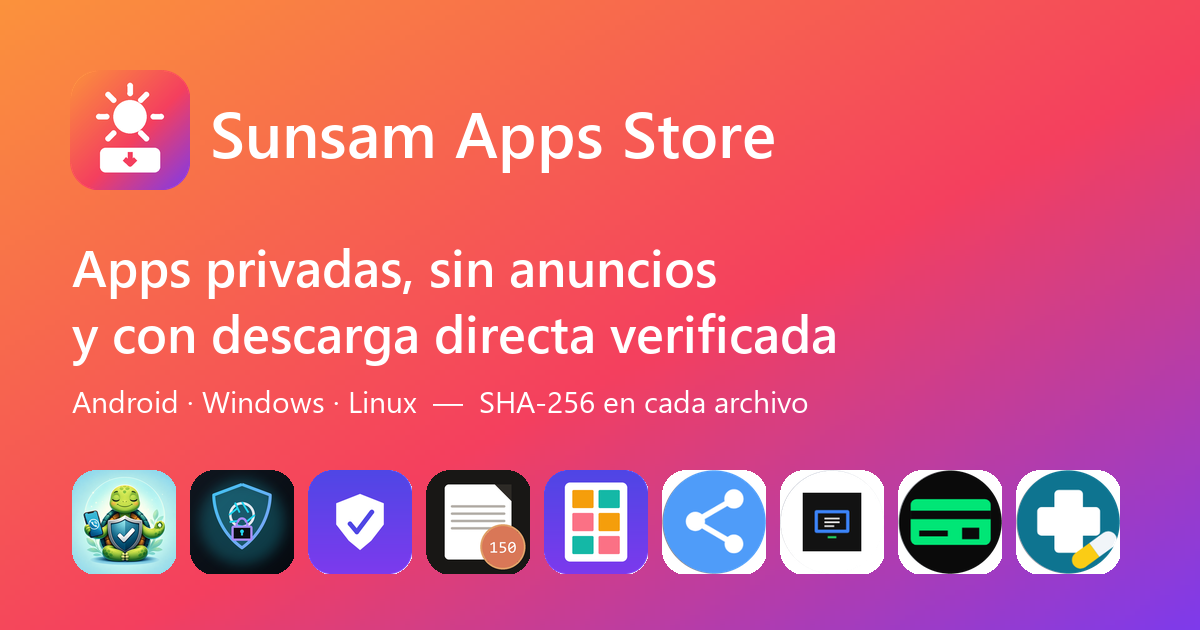
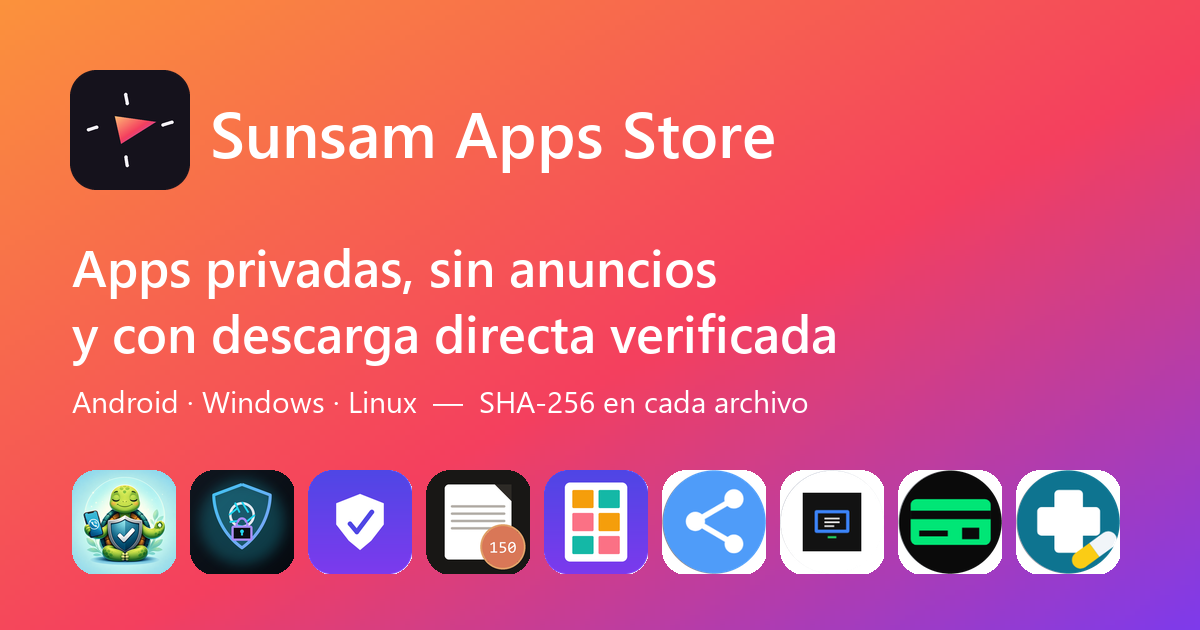
Icono Noche Sunsam y soporte para Google TV (v1.0.1)
- Nuevo icono basado en el logo SUNSAM: fondo oscuro, marcas en cruz y
  triángulo con el degradado de la marca (adaptativo + monocromo).
- Google TV: categoría LEANBACK_LAUNCHER, banner 320x180 y pantalla táctil
  opcional, para que la app aparezca en el lanzador de TV.
- Web: logo, imagen OG y foco visible para navegar con control remoto.
- tools/brand.py regenera toda la identidad desde la misma geometría.

Changed region(s): [[0.0308, 0.0905, 0.185, 0.3016]]

diff --git a/docs/styles.css b/docs/styles.css
@@ -180,6 +180,12 @@ code, .mono { font-family: ui-monospace, "Cascadia Code", Consolas, monospace; f
 .lb-prev { left: 16px; } .lb-next { right: 16px; }
 .toast { position: fixed; left: 50%; bottom: 24px; transform: translateX(-50%); z-index: 60; background: var(--text); color: var(--bg); padding: 10px 18px; border-radius: 12px; font-weight: 500; max-width: calc(100vw - 32px); }
 
+/* navegación con control remoto (Google TV) y teclado */
+a:focus-visible, button:focus-visible, input:focus-visible, .shots img:focus-visible {
+  outline: 3px solid var(--accent); outline-offset: 3px; border-radius: 12px;
+}
+.card:focus-visible { transform: scale(1.03); border-color: var(--accent); }
+
 .foot { border-top: 1px solid var(--line); padding: 24px 16px 40px; text-align: center; font-size: 14px; }
 .foot p { margin: 4px 0; }
 

diff --git a/tools/brand.py b/tools/brand.py
@@ -1,0 +1,169 @@
+"""Genera la identidad "Noche Sunsam" a partir de la geometría del logo original
+(cuatro marcas en cruz giradas ~9° y el triángulo indicador).
+
+Salidas:
+  docs/logo.svg                     icono vectorial (web, favicon)
+  docs/img/logo-512.png             icono PWA
+  docs/img/tv-banner.png            banner 1280x720 (web / referencia)
+  android/app/src/main/res/drawable-xhdpi/tv_banner.png   banner Google TV 320x180
+  android/app/src/main/res/drawable/ic_launcher_foreground.xml / _background.xml / _monochrome.xml
+  brand/sunsam-icon-1024.png, brand/sunsam-tv-banner-1280.png
+
+Uso: python tools/brand.py
+"""
+import pathlib
+from PIL import Image, ImageDraw, ImageFont
+
+ROOT = pathlib.Path(__file__).resolve().parent.parent
+RES = ROOT / 'android' / 'app' / 'src' / 'main' / 'res'
+BRAND = ROOT / 'brand'
+
+BG = (21, 18, 28)            # #15121c
+INK = (244, 241, 247)        # #f4f1f7
+ORANGE = (251, 146, 60)
+TRI_STOPS = [(0, (253, 186, 116)), (.5, (244, 63, 94)), (1, (139, 92, 246))]
+BAR_STOPS = [(0, (251, 146, 60)), (.55, (244, 63, 94)), (1, (124, 58, 237))]
+
+# Geometría medida sobre SunsamLogo.png (213x231), centro de la marca en (106, 90).
+TICKS = [((95.5, 3), (99.5, 25)), ((96, 156), (99, 177)), ((4, 89.5), (24.5, 83)), ((187, 77.5), (209, 71))]
+TRI = [(69, 56), (170, 70), (84, 124)]
+CX, CY, TICK_W = 106, 90, 8
+
+
+def lerp_stops(stops, t):
+    for (t0, c0), (t1, c1) in zip(stops, stops[1:]):
+        if t0 <= t <= t1:
+            k = (t - t0) / (t1 - t0) if t1 > t0 else 0
+            return tuple(round(a + (b - a) * k) for a, b in zip(c0, c1))
+    return stops[-1][1]
+
+
+def diag_gradient(w, h, stops):
+    small = Image.new('RGB', (64, 64))
+    px = small.load()
+    for y in range(64):
+        for x in range(64):
+            px[x, y] = lerp_stops(stops, (x + y) / 126)
+    return small.resize((w, h), Image.BICUBIC)
+
+
+def draw_mark(img, cx, cy, scale):
+    """Dibuja la marca centrada en (cx, cy) de img (RGBA, ya sobremuestreada)."""
+    d = ImageDraw.Draw(img)
+    tf = lambda p: (cx + (p[0] - CX) * scale, cy + (p[1] - CY) * scale)
+    w = TICK_W * scale
+    for a, b in TICKS:
+        a, b = tf(a), tf(b)
+        d.line([a, b], fill=INK, width=round(w))
+        for x, y in (a, b):
+            d.ellipse((x - w / 2, y - w / 2, x + w / 2, y + w / 2), fill=INK)
+    pts = [tf(p) for p in TRI]
+    xs, ys = [p[0] for p in pts], [p[1] for p in pts]
+    box = (int(min(xs)), int(min(ys)), int(max(xs)) + 1, int(max(ys)) + 1)
+    grad = diag_gradient(box[2] - box[0], box[3] - box[1], TRI_STOPS)
+    mask = Image.new('L', img.size, 0)
+    ImageDraw.Draw(mask).polygon(pts, fill=255)
+    layer = Image.new('RGBA', img.size, (0, 0, 0, 0))
+    layer.paste(grad, box[:2])
+    img.paste(layer, (0, 0), mask)
+
+
+def icon_png(size, radius_ratio=0.22, scale_ratio=0.0034):
+    S = size * 4
+    img = Image.new('RGBA', (S, S), (0, 0, 0, 0))
+    ImageDraw.Draw(img).rounded_rectangle((0, 0, S - 1, S - 1), radius=S * radius_ratio, fill=BG)
+    draw_mark(img, S / 2, S / 2, S * scale_ratio)
+    return img.resize((size, size), Image.LANCZOS)
+
+
+def banner_png(w, h):
+    S = 4
+    img = Image.new('RGBA', (w * S, h * S), BG + (255,))
+    bar = diag_gradient(w * S, round(h * S * 0.045), BAR_STOPS)
+    img.paste(bar, (0, h * S - bar.height))
+    draw_mark(img, w * S * 0.205, h * S * 0.48, h * S * 0.00265)
+    d = ImageDraw.Draw(img)
+    title = ImageFont.truetype(r'C:\Windows\Fonts\GOTHIC.TTF', round(h * S * 0.215))
+    sub = ImageFont.truetype(r'C:\Windows\Fonts\GOTHIC.TTF', round(h * S * 0.095))
+    x = w * S * 0.405
+    d.text((x, h * S * 0.30), 'SUNSAM', font=title, fill=INK)
+    # APPS con espaciado amplio, letra a letra
+    cx = x + h * S * 0.012
+    for ch in 'APPS':
+        d.text((cx, h * S * 0.585), ch, font=sub, fill=ORANGE)
+        cx += d.textlength(ch, font=sub) + h * S * 0.035
+    return img.resize((w, h), Image.LANCZOS).convert('RGB')
+
+
+def logo_svg():
+    ticks = ''.join(f'M{a[0]} {a[1]} {b[0]} {b[1]}' for a, b in TICKS)
+    tri = ' '.join(f'{x},{y}' for x, y in TRI)
+    return f'''<svg xmlns="http://www.w3.org/2000/svg" viewBox="0 0 108 108">
+  <defs>
+    <linearGradient id="t" x1="0" y1="0" x2="1" y2="1">
+      <stop offset="0" stop-color="#fdba74"/><stop offset=".5" stop-color="#f43f5e"/><stop offset="1" stop-color="#8b5cf6"/>
+    </linearGradient>
+  </defs>
+  <rect width="108" height="108" rx="24" fill="#15121c"/>
+  <g transform="translate(54 54) scale(.36) translate(-{CX} -{CY})">
+    <path d="{ticks}" fill="none" stroke="#f4f1f7" stroke-width="{TICK_W}" stroke-linecap="round"/>
+    <polygon points="{tri}" fill="url(#t)"/>
+  </g>
+</svg>
+'''
+
+
+def vector_foreground(monochrome=False):
+    """Primer plano del icono adaptativo. Escala 0.30: la marca cabe en la zona segura de 66dp."""
+    ticks = ''.join(f'M{a[0]},{a[1]}L{b[0]},{b[1]}' for a, b in TICKS)
+    tri = 'M' + 'L'.join(f'{x},{y}' for x, y in TRI) + 'Z'
+    ink = '#FFFFFFFF' if monochrome else '#FFF4F1F7'
+    if monochrome:
+        fill = f'<path android:fillColor="#FFFFFFFF" android:pathData="{tri}" />'
+    else:
+        fill = f'''<path android:pathData="{tri}">
+            <aapt:attr name="android:fillColor">
+                <gradient android:type="linear" android:startX="69" android:startY="56" android:endX="170" android:endY="124">
+                    <item android:offset="0" android:color="#FFFDBA74" />
+                    <item android:offset="0.5" android:color="#FFF43F5E" />
+                    <item android:offset="1" android:color="#FF8B5CF6" />
+                </gradient>
+            </aapt:attr>
+        </path>'''
+    return f'''<?xml version="1.0" encoding="utf-8"?>
+<vector xmlns:android="http://schemas.android.com/apk/res/android"
+    xmlns:aapt="http://schemas.android.com/aapt"
+    android:width="108dp" android:height="108dp" android:viewportWidth="108" android:viewportHeight="108">
+    <group android:translateX="{54 - CX * 0.30:.2f}" android:translateY="{54 - CY * 0.30:.2f}" android:scaleX="0.30" android:scaleY="0.30">
+        <path android:strokeColor="{ink}" android:strokeWidth="{TICK_W}" android:strokeLineCap="round" android:pathData="{ticks}" />
+        {fill}
+    </group>
+</vector>
+'''
+
+
+BACKGROUND = '''<?xml version="1.0" encoding="utf-8"?>
+<vector xmlns:android="http://schemas.android.com/apk/res/android"
+    android:width="108dp" android:height="108dp" android:viewportWidth="108" android:viewportHeight="108">
+    <path android:fillColor="#FF15121C" android:pathData="M0,0h108v108h-108z" />
+</vector>
+'''
+
+
+def main():
+    BRAND.mkdir(exist_ok=True)
+    (ROOT / 'docs' / 'logo.svg').write_text(logo_svg(), encoding='utf-8')
+    icon_png(512).save(ROOT / 'docs' / 'img' / 'logo-512.png')
+    icon_png(1024).save(BRAND / 'sunsam-icon-1024.png')
+    banner_png(1280, 720).save(BRAND / 'sunsam-tv-banner-1280.png')
+    banner_png(1280, 720).save(ROOT / 'docs' / 'img' / 'tv-banner.png')
+    (RES / 'drawable-xhdpi').mkdir(exist_ok=True)
+    banner_png(320, 180).save(RES / 'drawable-xhdpi' / 'tv_banner.png')
+    (RES / 'drawable' / 'ic_launcher_foreground.xml').write_text(vector_foreground(), encoding='utf-8')
+    (RES / 'drawable' / 'ic_launcher_monochrome.xml').write_text(vector_foreground(True), encoding='utf-8')
+    (RES / 'drawable' / 'ic_launcher_background.xml').write_text(BACKGROUND, encoding='utf-8')
+    print('ok')
+
+
+if __name__ == '__main__':
+    main()
